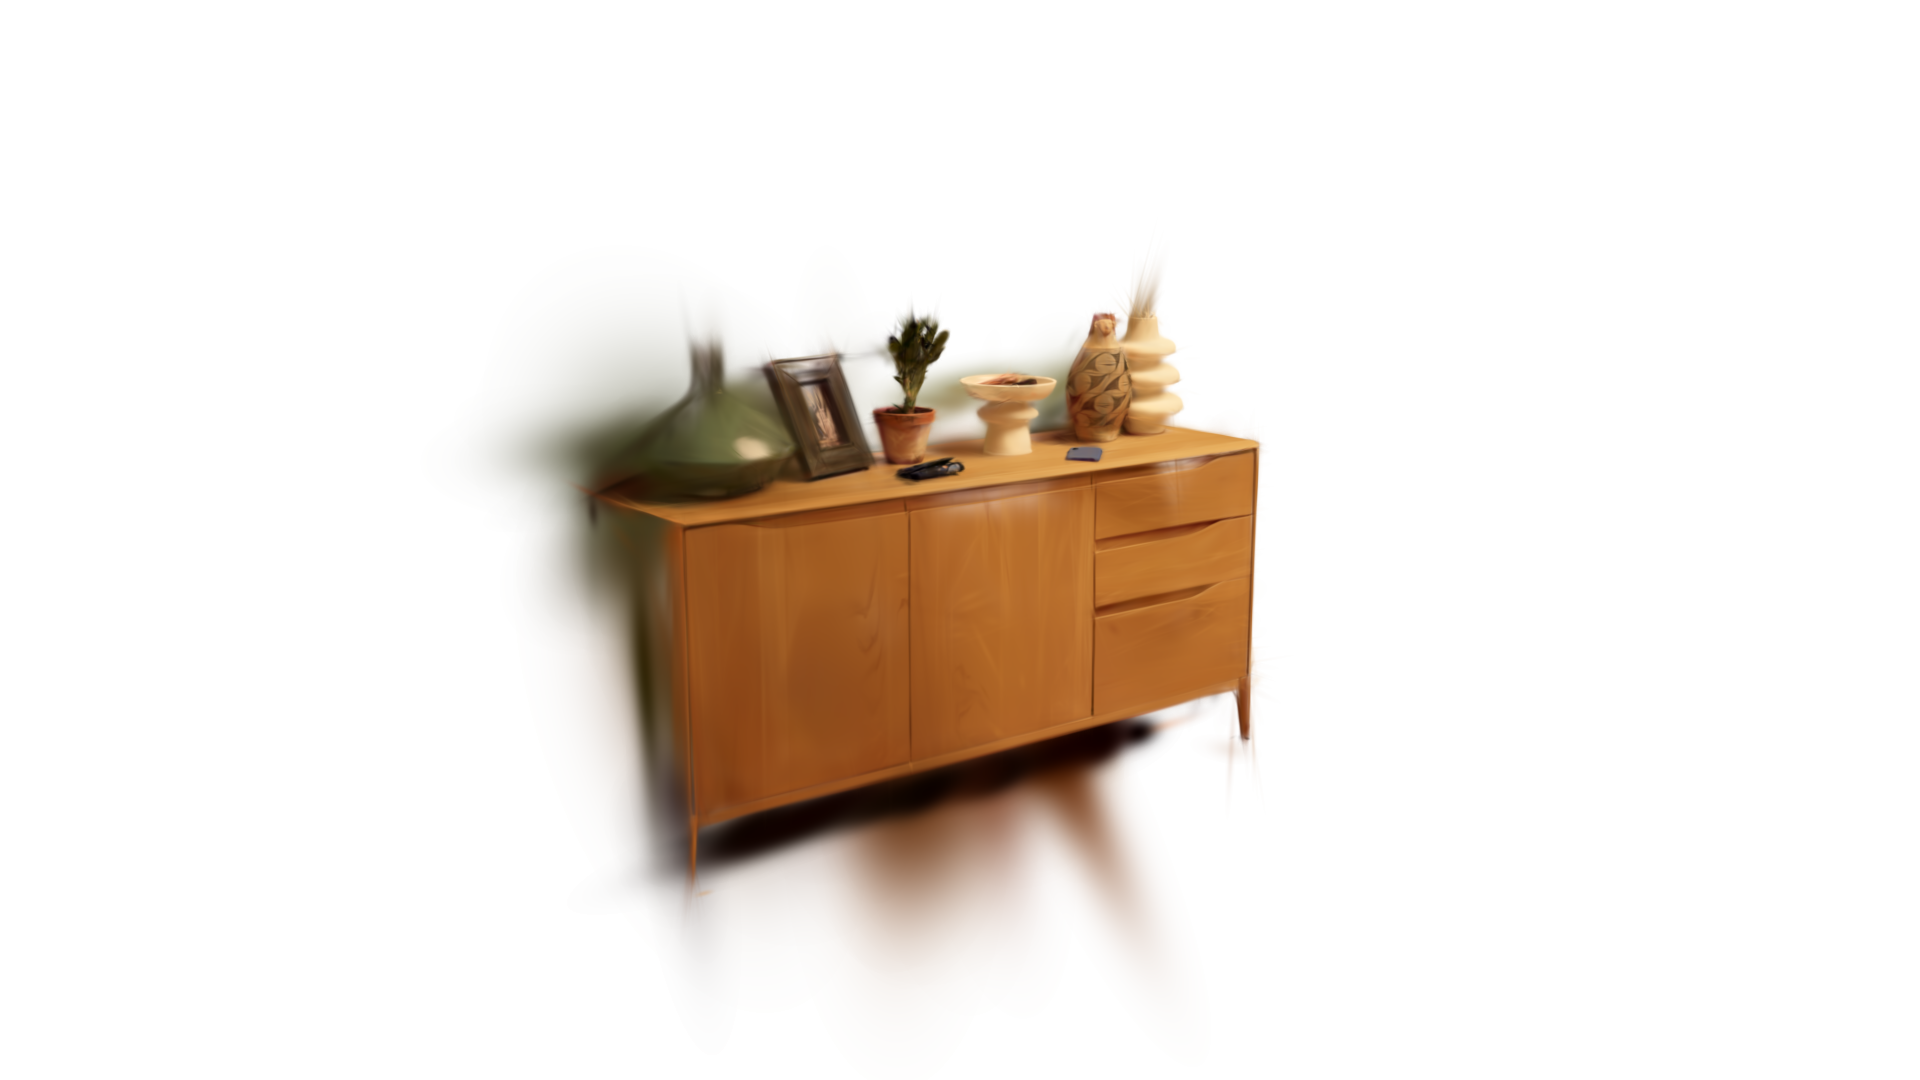
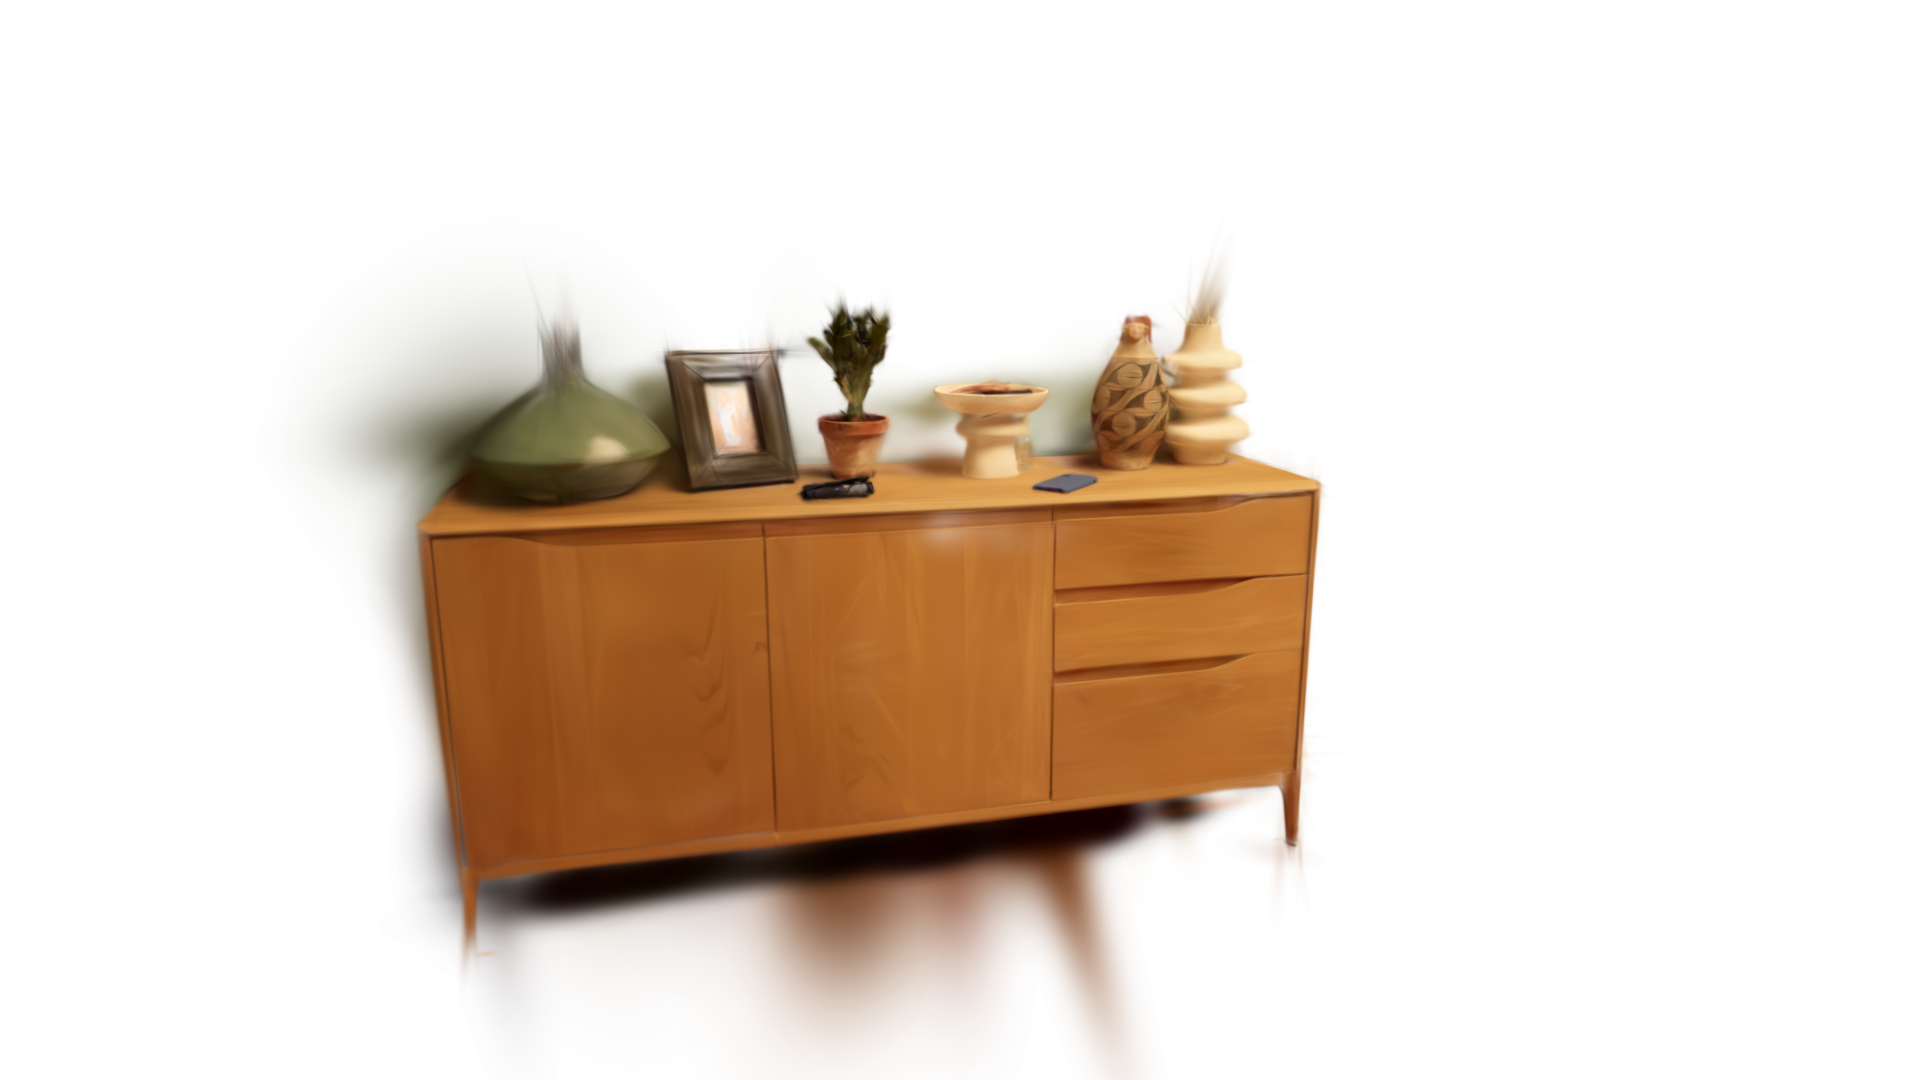
README: add object isolation showcase with locked wipe pairs
Adds a "Result → Object isolation" table linking the 4 locked
camera-matched object/background pairs at docs/showcase/wipe/.
Each pair shares the same camera so a website can cross-fade
between in-context and isolated views.

Includes the final sideboard renders (4th camera iteration) and
cameras.json with eye/target specs + source PLY paths for all 4
showcase objects.

Changed region(s): [[0.1562, 0.2444, 0.6875, 1.0]]

diff --git a/README.md b/README.md
@@ -18,6 +18,22 @@ Output: per-object `.splat` files (couch, armchair, stool, kitchen
 island, paintings, etc.) + `_background.splat` (walls / floor / ceiling).
 The full set reassembles into the original scan.
 
+### Object isolation
+
+Each pair below is rendered from the **same camera** — left is the
+original scan, right is a single isolated `.splat` extracted by the
+pipeline. Matched cameras mean a website can wipe-cross-dissolve
+between them.
+
+| Object | In context | Isolated |
+|---|---|---|
+| Armchair | ![](docs/showcase/wipe/grey_armchair_background.png) | ![](docs/showcase/wipe/grey_armchair_object.png) |
+| Sectional sofa | ![](docs/showcase/wipe/beige_sectional_sofa_background.png) | ![](docs/showcase/wipe/beige_sectional_sofa_object.png) |
+| Coffee table | ![](docs/showcase/wipe/wooden_coffee_table_background.png) | ![](docs/showcase/wipe/wooden_coffee_table_object.png) |
+| Sideboard | ![](docs/showcase/wipe/wooden_sideboard_background.png) | ![](docs/showcase/wipe/wooden_sideboard_object.png) |
+
+Camera specs in [`docs/showcase/wipe/cameras.json`](docs/showcase/wipe/cameras.json).
+
 ## How it works
 
 1. **Foundation alignment** — rotate scan so floor is y-down and walls